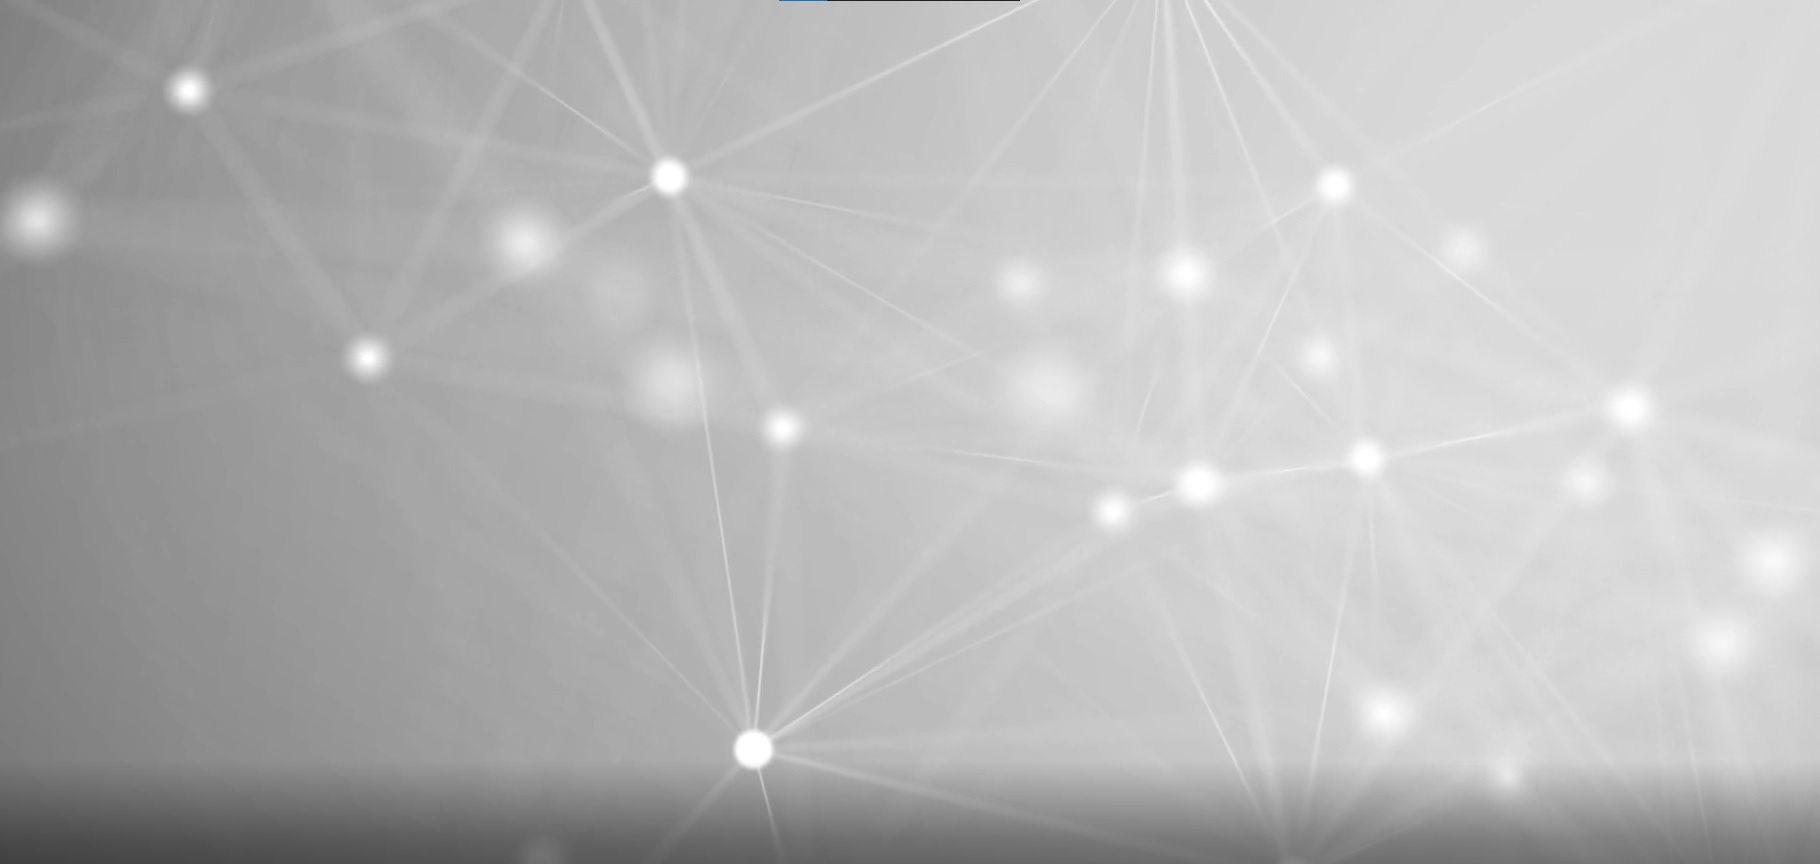
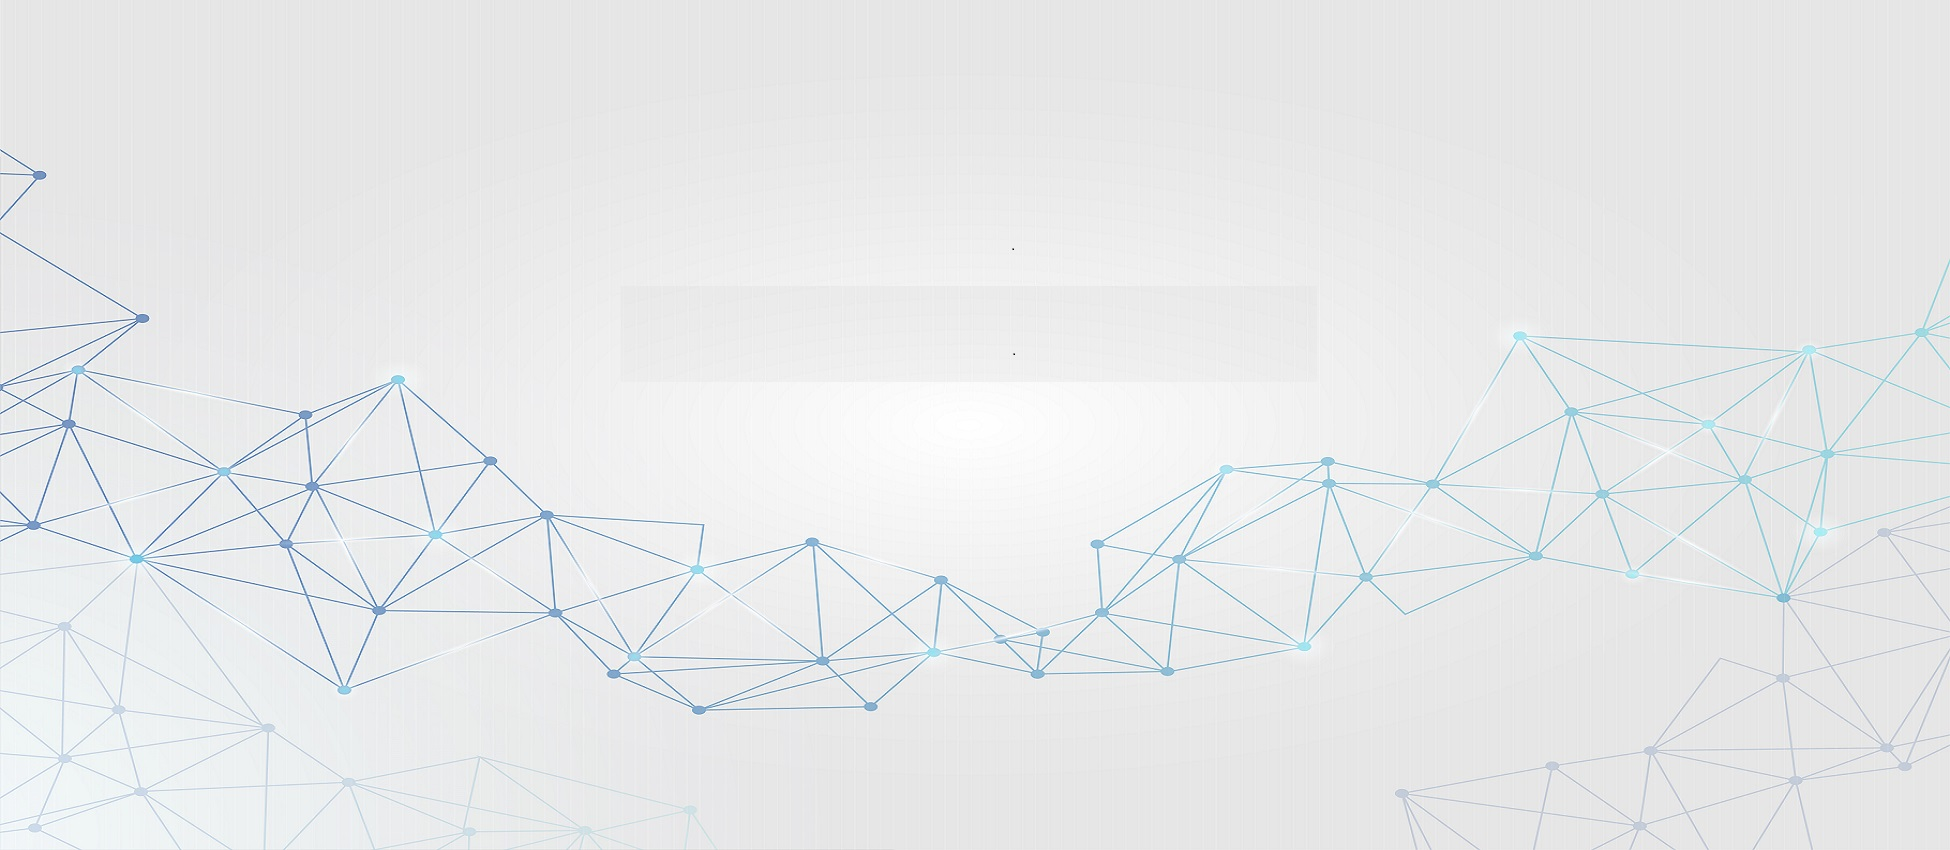
new ui login

diff --git a/public/assets/css/login.css b/public/assets/css/login.css
@@ -1,0 +1,5 @@
+.bluebox {
+    border-color: #00585c;
+    border-style: solid;
+    border-width: 6px;
+}
